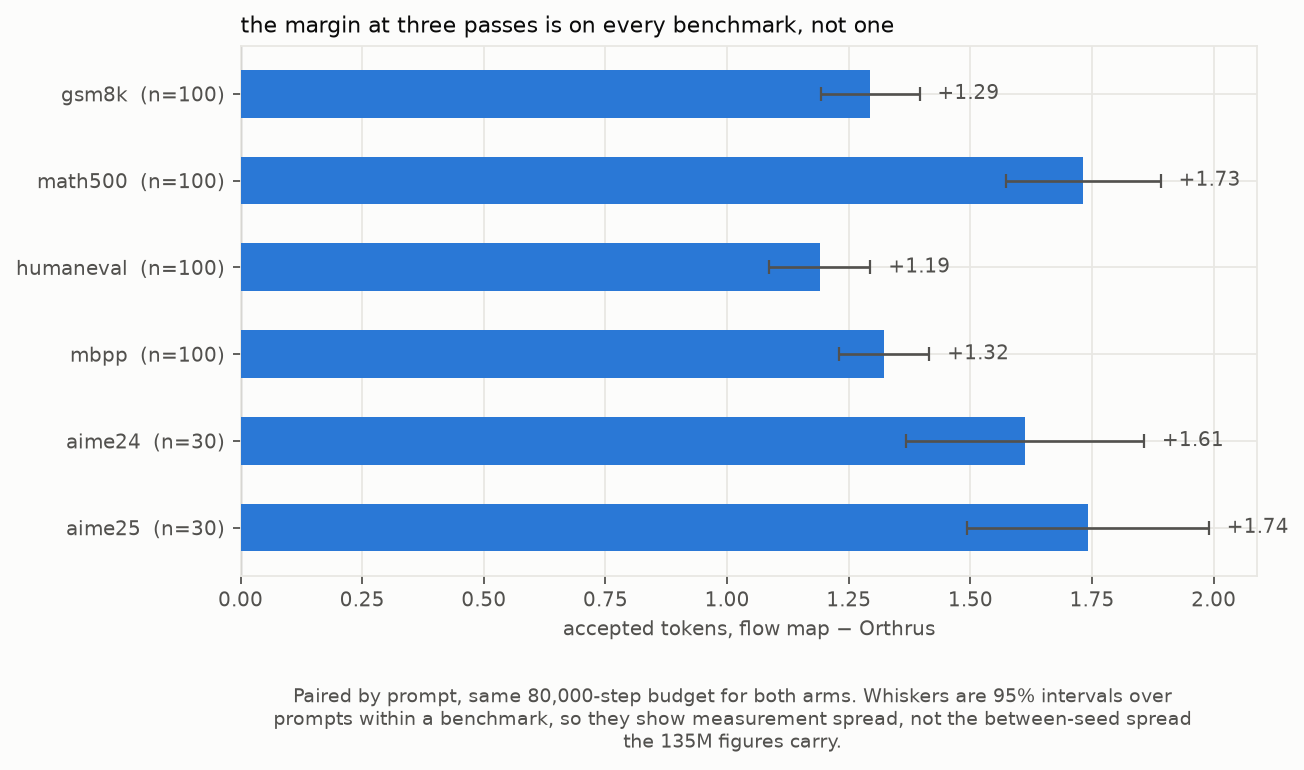
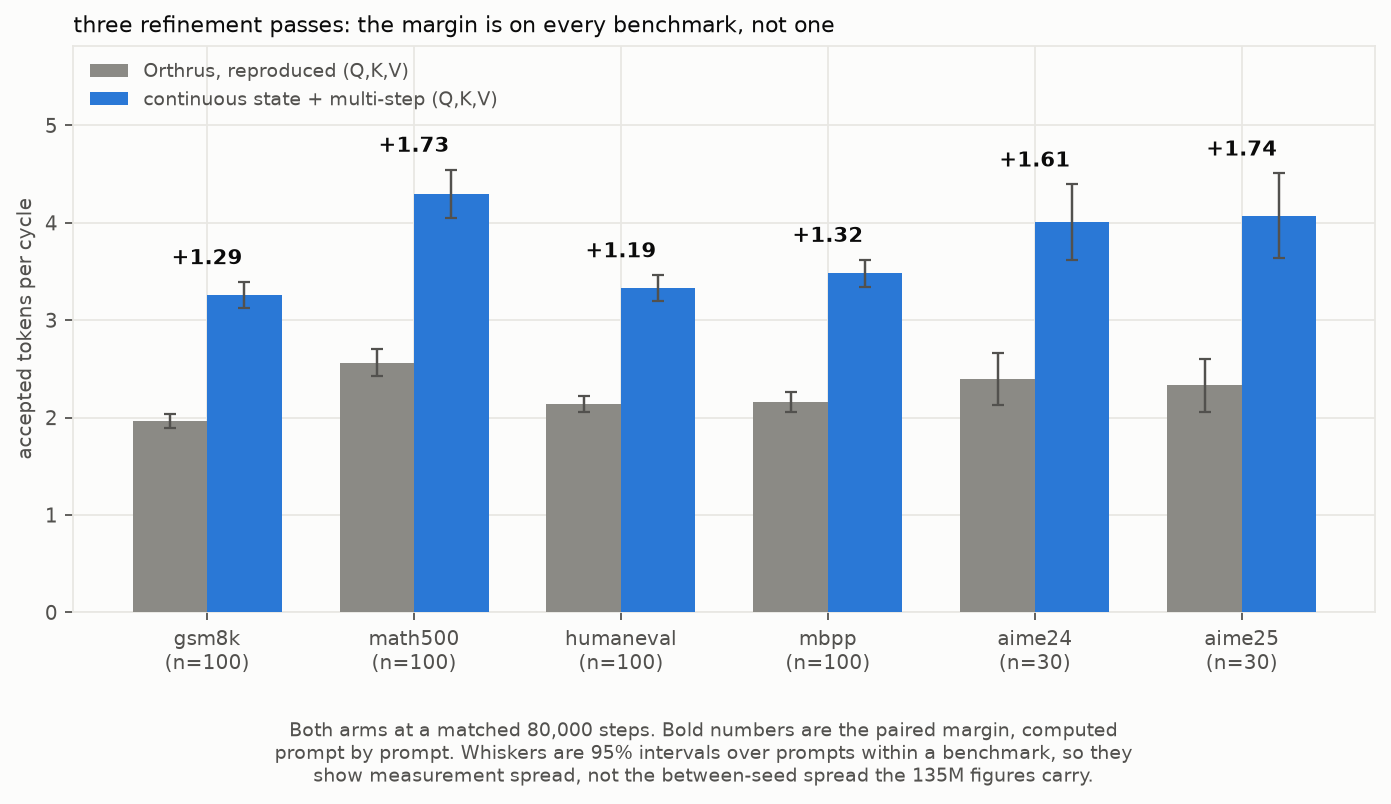
fix(figures): show both arms on the per-benchmark panel, not only their gap
The panel drew the paired margin alone, so a bar reading "+1.29" said nothing
about whether that was 2.0 against 3.3 or 1.0 against 2.3 — the levels the
margin comes from were absent. It now carries both arms as grouped bars, the
way the per-benchmark figure of the 10k section does, with the paired margin
annotated above each pair.

diff --git a/README.md b/README.md
@@ -338,7 +338,7 @@ weights, not by arithmetic.
 
 ![Qwen3-0.6B at 80k: acceptance, throughput and wall-clock against refinement passes](results/figures/qwen06_80k_passes.png)
 ![Qwen3-0.6B at 80k: the cost of a decode schedule that leaves the trained range](results/figures/qwen06_80k_schedule.png)
-![Qwen3-0.6B at 80k: paired per-benchmark margin at three refinement passes](results/figures/qwen06_80k_benchmarks.png)
+![Qwen3-0.6B at 80k: both arms per benchmark, and the paired margin, at three refinement passes](results/figures/qwen06_80k_benchmarks.png)
 
 **Limits, unchanged from the section above.** One training seed per arm, so the
 intervals use the prompt as the unit of observation and answer "will this hold on
